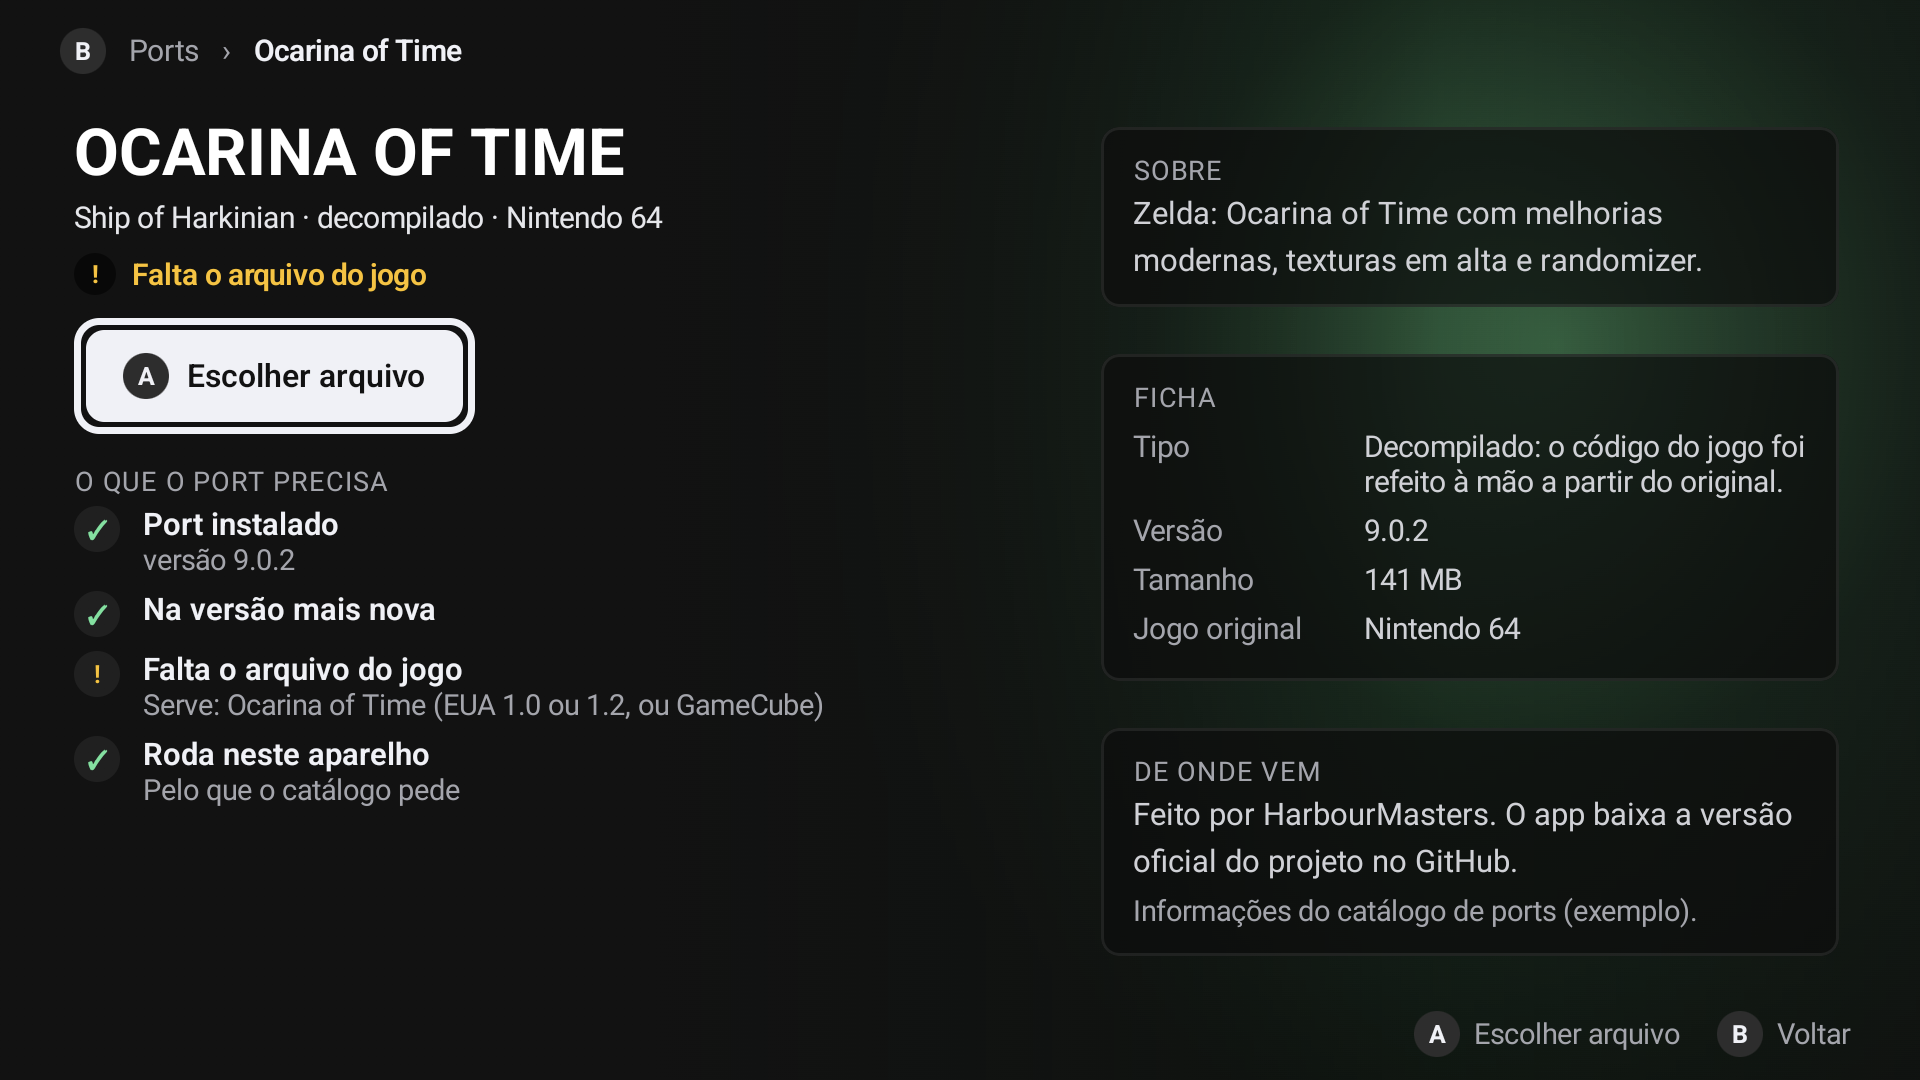
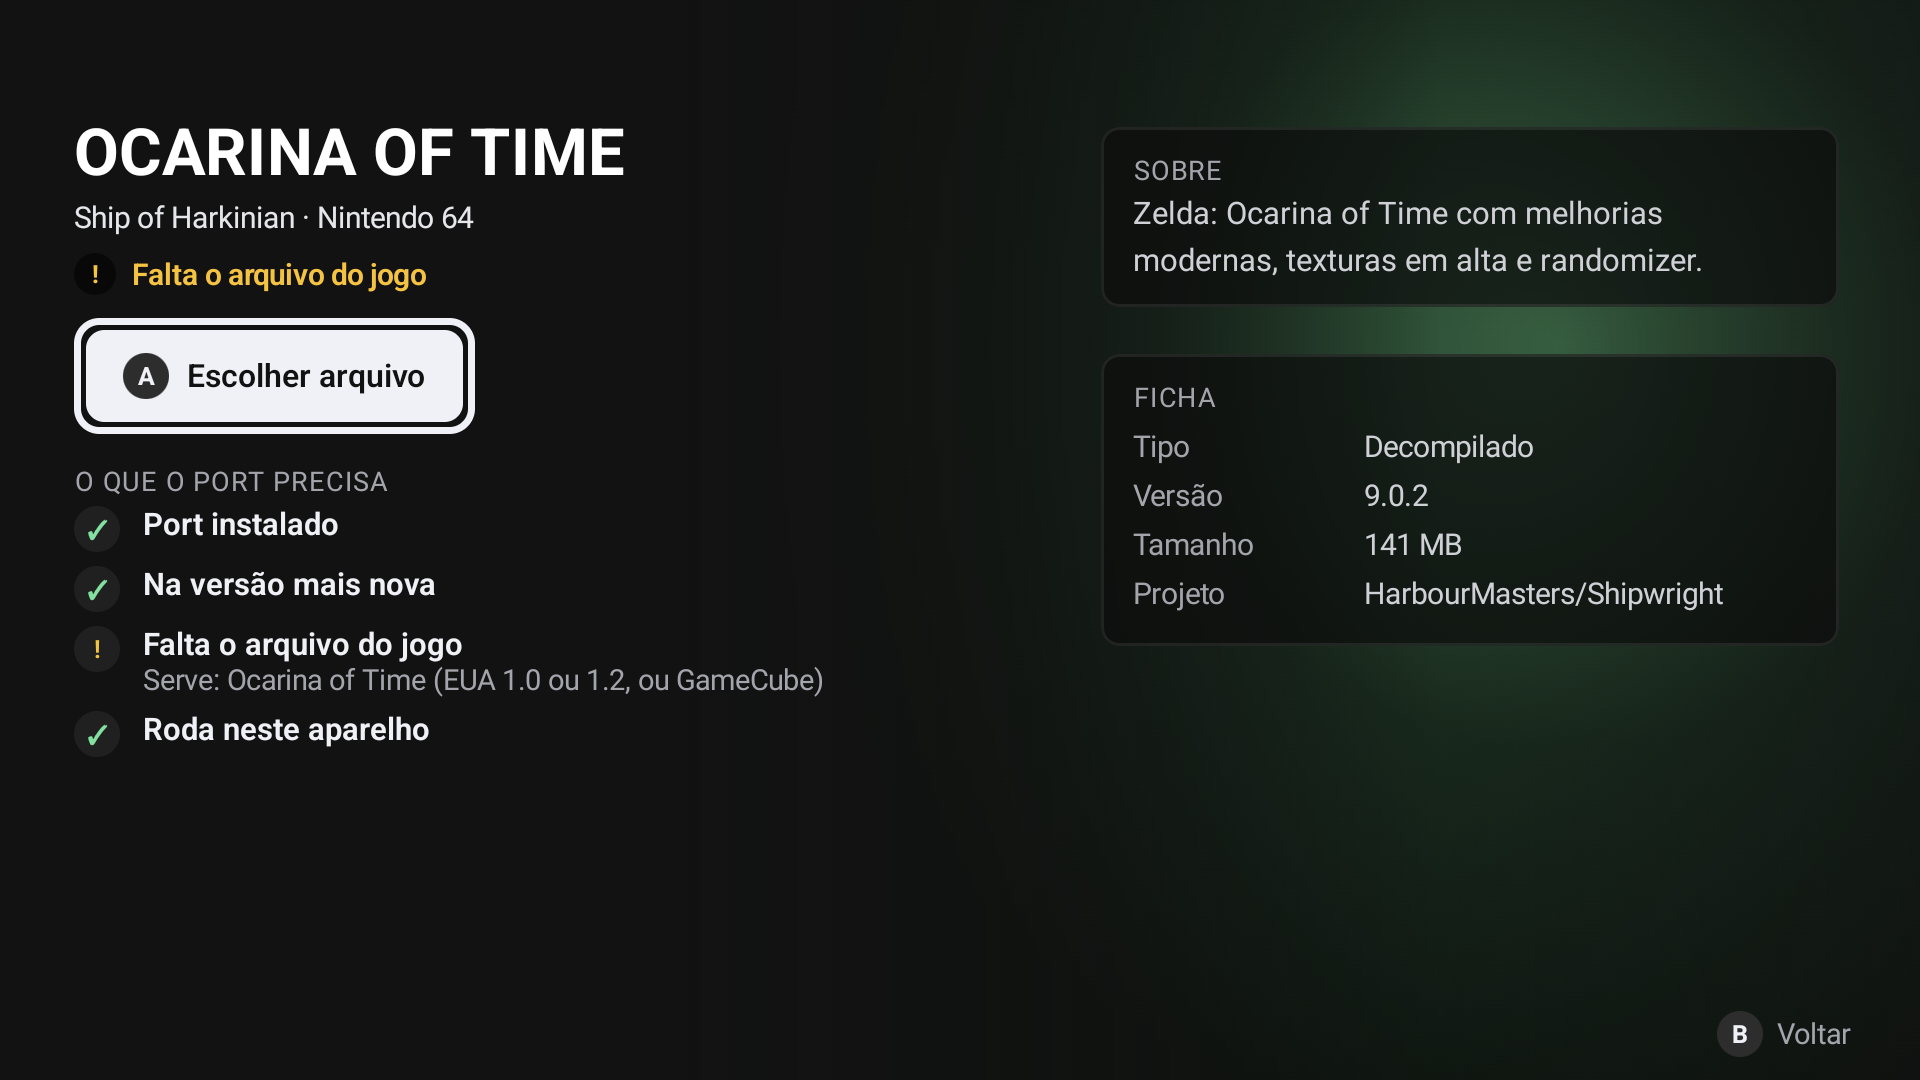
App: só o texto essencial nas três telas (D-007), testado no Odin 2
Limpeza feita por agente Haiku 5.5 a partir das decisões do Opus 5.5; validada no aparelho.

diff --git a/android/app/src/main/kotlin/app/ports/launcher/ui/Detalhes.kt b/android/app/src/main/kotlin/app/ports/launcher/ui/Detalhes.kt
@@ -9,7 +9,6 @@ import androidx.compose.foundation.layout.Row
 import androidx.compose.foundation.layout.fillMaxHeight
 import androidx.compose.foundation.layout.fillMaxSize
 import androidx.compose.foundation.layout.fillMaxWidth
-import androidx.compose.foundation.layout.height
 import androidx.compose.foundation.layout.padding
 import androidx.compose.foundation.layout.size
 import androidx.compose.foundation.layout.width
@@ -41,7 +40,7 @@ import app.ports.core.Tom
 /**
  * DETALHES — deitado. O estado que a capa resume vira a lista do que o port
  * precisa, sempre visível (aprovado na R1). A ação principal fica no mesmo
- * lugar e muda as palavras (P-26). O que não é do app tem fonte (P-29).
+ * lugar e muda as palavras (P-26).
  */
 @Composable
 fun Detalhes(pt: PortNaTela, aoAcao: (PortNaTela) -> Unit, aoVoltar: () -> Unit) {
@@ -54,22 +53,16 @@ fun Detalhes(pt: PortNaTela, aoAcao: (PortNaTela) -> Unit, aoVoltar: () -> Unit)
         Arte(p, Modifier.fillMaxSize().padding(start = 270.dp), comNome = false)
         Box(Modifier.fillMaxSize().background(Brush.horizontalGradient(0.34f to Cor.fundo, 0.52f to Color(0xD1121212), 0.75f to Color(0x73121212), 1f to Color(0xB3121212))))
 
-        // caminho: onde estou e como volto (P-35)
-        Row(Modifier.fillMaxWidth().height(44.dp).padding(horizontal = 26.dp), verticalAlignment = Alignment.CenterVertically, horizontalArrangement = Arrangement.spacedBy(10.dp)) {
-            Row(Modifier.clickableSemFoco(aoVoltar), verticalAlignment = Alignment.CenterVertically, horizontalArrangement = Arrangement.spacedBy(6.dp)) {
-                Glifo(Botao.B, claro = false)
-                if (entrada == Entrada.TOQUE) Texto("‹", Tipo.logo.copy(fontSize = 22.sp))
-            }
-            Texto("Ports", Tipo.dica)
-            Texto("›", Tipo.dica)
-            Texto(p.titulo, Tipo.botao.copy(fontSize = 13.sp, color = Cor.claro))
+        // ‹ só no toque; com controle, B volta (dica embaixo)
+        if (entrada == Entrada.TOQUE) Box(Modifier.padding(start = 20.dp, top = 8.dp).clickableSemFoco(aoVoltar)) {
+            Texto("‹", Tipo.logo.copy(fontSize = 28.sp))
         }
 
         Row(Modifier.fillMaxSize().padding(top = 50.dp)) {
             // coluna da ação
             Column(Modifier.padding(start = 32.dp).width(400.dp)) {
                 Texto(p.logo, Tipo.logo.copy(fontSize = 28.sp))
-                Texto("${p.nomePort} · ${p.tipo} · ${p.plataforma}", Tipo.corpo.copy(fontSize = 13.sp, color = Color(0xFFE6E7EC)), Modifier.padding(top = 4.dp))
+                Texto("${p.nomePort} · ${p.plataforma}", Tipo.corpo.copy(fontSize = 13.sp, color = Color(0xFFE6E7EC)), Modifier.padding(top = 4.dp))
                 Box(Modifier.padding(top = 8.dp)) { LinhaEstado(pt) }
                 val principal = remember { FocusRequester() }
                 Row(Modifier.padding(top = 10.dp), horizontalArrangement = Arrangement.spacedBy(4.dp)) {
@@ -91,18 +84,14 @@ fun Detalhes(pt: PortNaTela, aoAcao: (PortNaTela) -> Unit, aoVoltar: () -> Unit)
             Column(Modifier.weight(1f).fillMaxHeight().padding(start = 40.dp, end = 30.dp, bottom = 40.dp).verticalScroll(rememberScrollState()), verticalArrangement = Arrangement.spacedBy(10.dp)) {
                 Bloco("SOBRE", entrada) { Texto(p.descricao, Tipo.corpo.copy(fontSize = 13.5.sp, lineHeight = 20.sp)) }
                 Bloco("FICHA", entrada) {
-                    Ficha("Tipo", if (p.tipo == "recompilado") "Recompilado: o código do jogo foi traduzido pra rodar nativo." else "Decompilado: o código do jogo foi refeito à mão a partir do original.")
+                    Ficha("Tipo", p.tipo.replaceFirstChar { it.uppercase() })
                     Ficha("Versão", pt.versaoInstalada ?: "não instalado")
                     Ficha("Tamanho", p.tamanho)
-                    Ficha("Jogo original", p.plataforma)
-                }
-                Bloco("DE ONDE VEM", entrada) {
-                    Texto("Feito por ${p.repo.substringBefore('/')}. O app baixa a versão oficial do projeto no GitHub.", Tipo.corpo.copy(fontSize = 13.5.sp, lineHeight = 20.sp))
-                    Texto("Informações do catálogo de ports (exemplo).", Tipo.dica.copy(fontSize = 12.5.sp), Modifier.padding(top = 6.dp))
+                    Ficha("Projeto", p.repo)
                 }
             }
         }
-        Dicas(listOf(Botao.A to acao, Botao.B to "Voltar"), Modifier.align(Alignment.BottomEnd).padding(end = 30.dp, bottom = 10.dp))
+        Dicas(listOf(Botao.B to "Voltar"),Modifier.align(Alignment.BottomEnd).padding(end = 30.dp, bottom = 10.dp))
     }
 }
 
@@ -134,7 +123,7 @@ private fun Precisa(pt: PortNaTela) {
                 }
                 Column {
                     Texto(titulo, Tipo.botao.copy(fontSize = 13.5.sp, color = Cor.claro))
-                    if (detalhe.isNotEmpty()) Texto(detalhe, Tipo.dica.copy(fontSize = 12.5.sp))
+                    if ((tom == Tom.AVISO || tom == Tom.RUIM) && detalhe.isNotEmpty()) Texto(detalhe, Tipo.dica.copy(fontSize = 12.5.sp))
                 }
             }
         }

diff --git a/android/app/src/main/kotlin/app/ports/launcher/ui/Inicio.kt b/android/app/src/main/kotlin/app/ports/launcher/ui/Inicio.kt
@@ -47,8 +47,8 @@ import app.ports.core.Textos
 
 /**
  * INÍCIO — deitado. O jogo em foco é o fundo da tela (aprovado na R1); a
- * fileira é atalho pros recentes; pra baixo abre a lista completa (Q-c). O nome
- * aparece só na capa em foco (aprovado na R1). A joga, Y abre os detalhes.
+ * fileira é atalho pros recentes; pra baixo abre a lista completa (Q-c). A
+ * joga, Y abre os detalhes.
  */
 @Composable
 fun Inicio(
@@ -80,26 +80,16 @@ fun Inicio(
         Column(Modifier.padding(start = 32.dp, top = 54.dp).width(460.dp)) {
             val pt = focado
             if (noTodos || pt == null) {
-                Texto("BIBLIOTECA", Tipo.sobre)
-                Texto("TODOS OS PORTS", Tipo.logo, Modifier.padding(top = 2.dp))
-                Texto("$total ports no catálogo", Tipo.corpo.copy(color = Color(0xFFE6E7EC), fontSize = 13.sp), Modifier.padding(top = 4.dp))
+                Texto("TODOS OS PORTS", Tipo.logo, Modifier.padding(top = 0.dp))
                 Row(Modifier.padding(top = 14.dp)) { BotaoHydra("Abrir a lista", true, Botao.A, aoClicar = aoTodos) }
             } else {
                 val t = Textos.de(pt.estado)
-                val sobre = when {
-                    pt == recentes.firstOrNull() -> "CONTINUAR JOGANDO"
-                    pt.port.jogadoHa != null && pt.port.jogadoHa != "nunca jogado" -> "JOGADO ${pt.port.jogadoHa!!.uppercase()}"
-                    else -> "RECENTES"
-                }
-                Texto(sobre, Tipo.sobre)
-                Texto(pt.port.logo, Tipo.logo, Modifier.padding(top = 2.dp))
-                Texto("${pt.port.nomePort} · ${pt.port.tipo}${pt.versaoInstalada?.let { " · v$it" } ?: ""}", Tipo.corpo.copy(color = Color(0xFFE6E7EC), fontSize = 13.sp), Modifier.padding(top = 4.dp))
-                Box(Modifier.padding(top = 9.dp)) { LinhaEstado(pt) }
-                if (pt.estado == Estado.FALTA_ARQUIVO) Texto("Serve: ${pt.port.arquivoQueServe}. A gente confere o arquivo pra você.", Tipo.dica, Modifier.padding(top = 4.dp))
+                Texto(pt.port.logo, Tipo.logo, Modifier.padding(top = 0.dp))
+                if (pt.estado != Estado.PRONTO) Box(Modifier.padding(top = 9.dp)) { LinhaEstado(pt) }
                 if (pt.estado == Estado.BAIXANDO) Barra(pt.progresso ?: 0, Modifier.padding(top = 8.dp).width(220.dp))
                 Row(Modifier.padding(top = 12.dp), horizontalArrangement = Arrangement.spacedBy(8.dp)) {
                     BotaoHydra(t.acao, true, Botao.A, aoClicar = { aoAcao(pt) })
-                    BotaoHydra("Detalhes", false, Botao.Y, aoClicar = { aoDetalhes(pt) })
+                    if (entrada == Entrada.TOQUE) BotaoHydra("⋯", false, null, aoClicar = { aoDetalhes(pt) })
                 }
             }
         }
@@ -131,11 +121,6 @@ fun Inicio(
                         .acionavel { aoAcao(pt) }
                 ) {
                     Arte(pt.port, Modifier.fillMaxSize(), tamanhoNome = 12.sp)
-                    if (temFoco || entrada == Entrada.TOQUE) {
-                        Box(Modifier.align(Alignment.BottomStart).fillMaxWidth().background(Brush.verticalGradient(listOf(Color.Transparent, Color(0xD9000000)))).padding(start = 8.dp, end = 32.dp, top = 16.dp, bottom = 6.dp)) {
-                            Texto(pt.port.titulo, Tipo.botao.copy(fontSize = 12.sp, color = Color.White), linhas = 1)
-                        }
-                    }
                     Selo(pt, Modifier.align(Alignment.BottomEnd).padding(6.dp))
                     if (pt.estado == Estado.BAIXANDO) Barra(pt.progresso ?: 0, Modifier.align(Alignment.BottomStart).fillMaxWidth())
                 }
@@ -150,11 +135,7 @@ fun Inicio(
                         .acionavel { aoTodos() },
                     contentAlignment = Alignment.Center,
                 ) {
-                    Column(horizontalAlignment = Alignment.CenterHorizontally) {
-                        Texto("Todos os ports", Tipo.botao.copy(fontSize = 12.5.sp, color = Cor.texto))
-                        Texto("↓", Tipo.corpo)
-                        Texto("$total no catálogo", Tipo.dica.copy(fontSize = 11.sp))
-                    }
+                    Texto("Todos os ports", Tipo.botao.copy(fontSize = 12.5.sp, color = Cor.texto))
                 }
             }
         }
@@ -162,7 +143,7 @@ fun Inicio(
 
         val pt = focado
         Dicas(
-            if (noTodos || pt == null) listOf(Botao.A to "Abrir") else listOf(Botao.A to Textos.de(pt.estado).acao, Botao.Y to "Detalhes"),
+            if (noTodos || pt == null) emptyList() else listOf(Botao.Y to "Detalhes"),
             Modifier.align(Alignment.BottomEnd).padding(end = 22.dp, bottom = 10.dp),
         )
     }

diff --git a/android/app/src/main/kotlin/app/ports/launcher/ui/Ports.kt b/android/app/src/main/kotlin/app/ports/launcher/ui/Ports.kt
@@ -6,7 +6,6 @@ import androidx.compose.foundation.background
 import androidx.compose.foundation.border
 import androidx.compose.foundation.layout.Arrangement
 import androidx.compose.foundation.layout.Box
-import androidx.compose.foundation.layout.Column
 import androidx.compose.foundation.layout.PaddingValues
 import androidx.compose.foundation.layout.Row
 import androidx.compose.foundation.layout.aspectRatio
@@ -82,8 +81,6 @@ fun Ports(
                     Texto("${todos.count(f.aceita)}", Tipo.dica.copy(fontSize = 12.sp, color = if (sel) Color(0xFF4A4B52) else Cor.texto2))
                 }
             }
-            Box(Modifier.weight(1f))
-            Texto("Ordem: A–Z", Tipo.dica)
         }
 
         // grade de capas verticais
@@ -125,14 +122,11 @@ fun Ports(
         ) {
             val pt = focado
             if (pt != null) {
-                Column {
-                    Texto(pt.port.titulo, Tipo.botao.copy(color = Cor.claro))
-                    Texto("${pt.port.nomePort} · ${pt.port.plataforma}", Tipo.dica.copy(fontSize = 12.sp))
-                }
-                LinhaEstado(pt)
+                Texto(pt.port.titulo, Tipo.botao.copy(color = Cor.claro))
+                if (pt.estado != Estado.PRONTO) LinhaEstado(pt, longo = false)
             }
             Box(Modifier.weight(1f))
-            Dicas(if (pt != null) listOf(Botao.A to Textos.de(pt.estado).acao, Botao.Y to "Detalhes") else listOf(Botao.A to "Escolher", Botao.B to "Voltar"))
+            Dicas(if (pt != null) listOf(Botao.A to Textos.de(pt.estado).acao, Botao.Y to "Detalhes") else emptyList())
         }
     }
 }

diff --git a/DECISIONS.md b/DECISIONS.md
@@ -54,6 +54,16 @@
 
 **Consequências:** a variação troca com Shift + ←/→, já que as setas são o direcional do app. A página do sistema do painel não veio junto, porque depende da identidade do portfólio. Detalhes em `laboratorio/refinamento/README.md`.
 
+## D-007 — Só o texto essencial
+
+**Status:** aceita · **Data:** 2026-10-27
+
+**Contexto:** no primeiro teste no Odin, o Victor achou o app "com texto de filler em extremo excesso".
+
+**Decisão:** cada informação aparece uma vez e só onde é usada. O estado só aparece quando pede atenção, já que "Pronto" fica implícito no botão "Jogar". Explicação só existe onde o jogador precisa agir (ex.: "Serve: …"). As dicas de botões não repetem o que um botão grande já mostra. Detalhes técnicos (port, tipo, versão, projeto) ficam só na ficha de Detalhes.
+
+**Consequências:** sai o nome sobre a capa em foco, que tinha sido aprovado na R1 (variação `recentesNome = foco`), porque repetia o título grande e o nome na arte. Se o Victor quiser de volta, é só reverter esse ponto. O lab ainda tem os textos antigos e vale como referência de layout, não de texto.
+
 ## Decisões da IA que o Victor precisa conferir
 
 - **Q-a:** "Ports" substitui Catálogo e Biblioteca, com filtros Instalados, Disponíveis e Atualizações.
